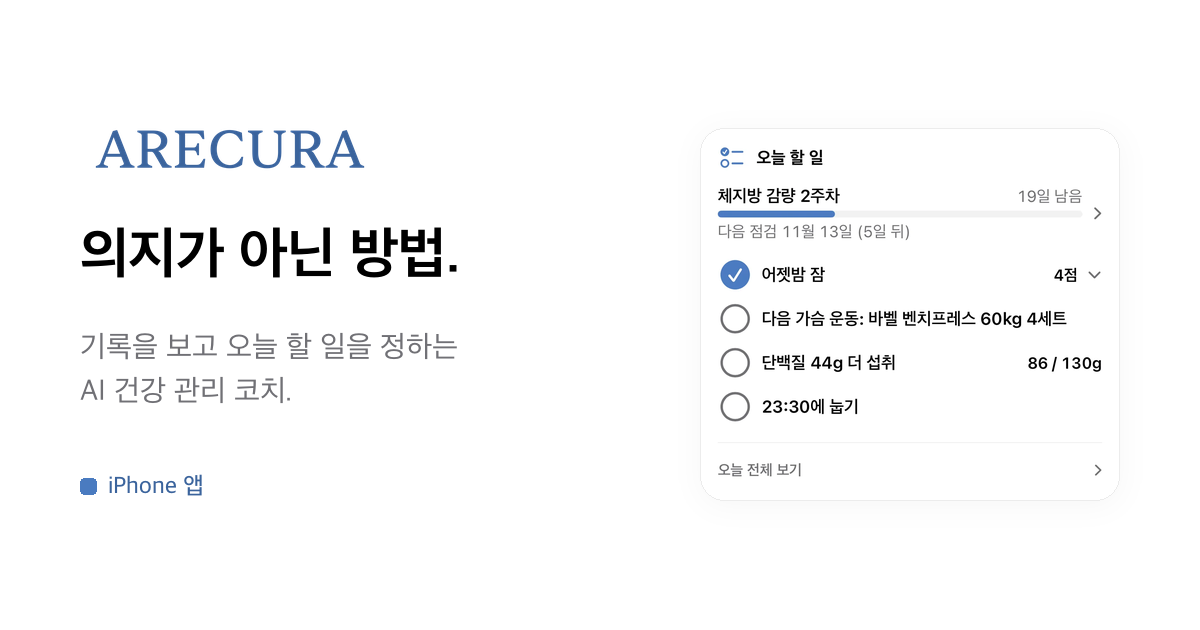
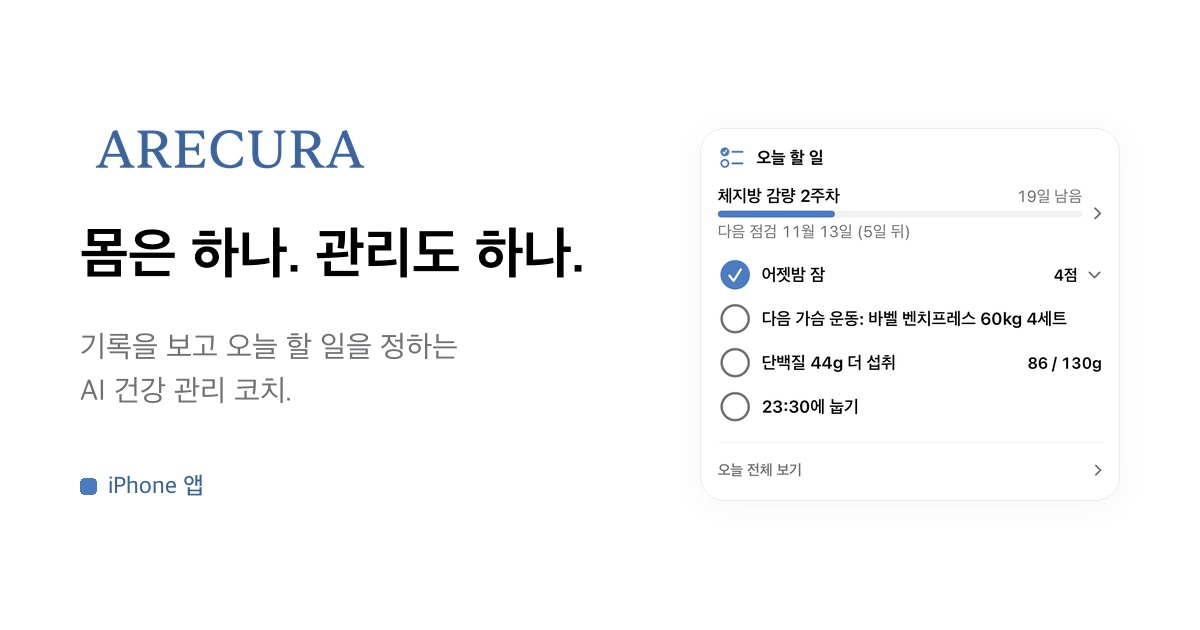
사이트 갱신 (앱 저장소 6ed76312a)

Changed region(s): [[0.0617, 0.3619, 0.4933, 0.4524]]

diff --git a/index.html b/index.html
@@ -4,20 +4,20 @@
 <meta charset="utf-8">
 <meta name="viewport" content="width=device-width, initial-scale=1">
 <title>Arecura: AI 건강 관리 코치</title>
-<meta name="description" content="의지가 아닌 방법. 운동, 식단, 수면 기록을 바탕으로 오늘 할 일을 정하는 AI 건강 관리 코치, Arecura.">
+<meta name="description" content="몸은 하나. 관리도 하나. 운동, 식단, 수면 기록을 바탕으로 오늘 할 일을 정하는 AI 건강 관리 코치, Arecura.">
 <meta name="theme-color" content="#FFFFFF">
 <meta name="color-scheme" content="only light">
 <link rel="canonical" href="https://arecura.net/">
 <meta property="og:type" content="website">
 <meta property="og:site_name" content="Arecura">
 <meta property="og:locale" content="ko_KR">
-<meta property="og:title" content="Arecura: 의지가 아닌 방법">
+<meta property="og:title" content="Arecura: 몸은 하나. 관리도 하나.">
 <meta property="og:description" content="운동, 식단, 수면 기록을 바탕으로 오늘 할 일을 정하는 AI 건강 관리 코치, Arecura.">
 <meta property="og:url" content="https://arecura.net/">
 <meta property="og:image" content="https://arecura.net/og-image.png">
 <meta property="og:image:width" content="1200">
 <meta property="og:image:height" content="630">
-<meta property="og:image:alt" content="Arecura 로고와 「의지가 아닌 방법.」, 「기록을 보고 오늘 할 일을 정하는 AI 건강 관리 코치.」 문구, 체지방 감량 2주차의 어젯밤 잠 점수, 「다음 가슴 운동: 바벨 벤치프레스 60kg 4세트」, 단백질, 눕는 시각을 한 줄씩 적은 「오늘 할 일」 앱 화면">
+<meta property="og:image:alt" content="Arecura 로고와 「몸은 하나. 관리도 하나.」, 「기록을 보고 오늘 할 일을 정하는 AI 건강 관리 코치.」 문구, 체지방 감량 2주차의 어젯밤 잠 점수, 「다음 가슴 운동: 바벨 벤치프레스 60kg 4세트」, 단백질, 눕는 시각을 한 줄씩 적은 「오늘 할 일」 앱 화면">
 <meta name="twitter:card" content="summary_large_image">
 <link rel="icon" type="image/x-icon" sizes="16x16 32x32" href="/favicon.ico?v=arecura-20261008">
 <link rel="icon" type="image/png" sizes="16x16" href="/favicon-16.png?v=arecura-20261008">
@@ -434,7 +434,7 @@
 <section class="hero" aria-labelledby="hero-title">
   <div class="wrap">
     <div>
-      <h1 id="hero-title">의지가 아닌 방법.</h1>
+      <h1 id="hero-title"><span class="line">몸은 하나.</span> <span class="line">관리도 하나.</span></h1>
       <p class="lead">기록을 보고 오늘 할 일을 정하는 AI 건강 관리 코치.<sup class="fn"><a href="#fn-1" aria-label="각주 1">1</a></sup></p>
       <ul class="hero-points" role="list">
         <li>오늘 할 일, 한 줄씩</li>

diff --git a/support.html b/support.html
@@ -17,7 +17,7 @@
 <meta property="og:image" content="https://arecura.net/og-image.png" />
 <meta property="og:image:width" content="1200" />
 <meta property="og:image:height" content="630" />
-<meta property="og:image:alt" content="Arecura 로고와 「의지가 아닌 방법.」, 「기록을 보고 오늘 할 일을 정하는 AI 건강 관리 코치.」 문구, 체지방 감량 2주차의 어젯밤 잠 점수, 「다음 가슴 운동: 바벨 벤치프레스 60kg 4세트」, 단백질, 눕는 시각을 한 줄씩 적은 「오늘 할 일」 앱 화면" />
+<meta property="og:image:alt" content="Arecura 로고와 「몸은 하나. 관리도 하나.」, 「기록을 보고 오늘 할 일을 정하는 AI 건강 관리 코치.」 문구, 체지방 감량 2주차의 어젯밤 잠 점수, 「다음 가슴 운동: 바벨 벤치프레스 60kg 4세트」, 단백질, 눕는 시각을 한 줄씩 적은 「오늘 할 일」 앱 화면" />
 <meta name="twitter:card" content="summary_large_image" />
 <link rel="icon" type="image/x-icon" sizes="16x16 32x32" href="/favicon.ico?v=arecura-20261008" />
 <link rel="icon" type="image/png" sizes="16x16" href="/favicon-16.png?v=arecura-20261008" />

diff --git a/privacy.html b/privacy.html
@@ -15,7 +15,7 @@
 <meta property="og:image" content="https://arecura.net/og-image.png" />
 <meta property="og:image:width" content="1200" />
 <meta property="og:image:height" content="630" />
-<meta property="og:image:alt" content="Arecura 로고와 「의지가 아닌 방법.」, 「기록을 보고 오늘 할 일을 정하는 AI 건강 관리 코치.」 문구, 체지방 감량 2주차의 어젯밤 잠 점수, 「다음 가슴 운동: 바벨 벤치프레스 60kg 4세트」, 단백질, 눕는 시각을 한 줄씩 적은 「오늘 할 일」 앱 화면" />
+<meta property="og:image:alt" content="Arecura 로고와 「몸은 하나. 관리도 하나.」, 「기록을 보고 오늘 할 일을 정하는 AI 건강 관리 코치.」 문구, 체지방 감량 2주차의 어젯밤 잠 점수, 「다음 가슴 운동: 바벨 벤치프레스 60kg 4세트」, 단백질, 눕는 시각을 한 줄씩 적은 「오늘 할 일」 앱 화면" />
 <meta name="twitter:card" content="summary_large_image" />
 <meta name="theme-color" content="#FFFFFF" />
 <meta name="color-scheme" content="only light" />

diff --git a/terms.html b/terms.html
@@ -15,7 +15,7 @@
 <meta property="og:image" content="https://arecura.net/og-image.png" />
 <meta property="og:image:width" content="1200" />
 <meta property="og:image:height" content="630" />
-<meta property="og:image:alt" content="Arecura 로고와 「의지가 아닌 방법.」, 「기록을 보고 오늘 할 일을 정하는 AI 건강 관리 코치.」 문구, 체지방 감량 2주차의 어젯밤 잠 점수, 「다음 가슴 운동: 바벨 벤치프레스 60kg 4세트」, 단백질, 눕는 시각을 한 줄씩 적은 「오늘 할 일」 앱 화면" />
+<meta property="og:image:alt" content="Arecura 로고와 「몸은 하나. 관리도 하나.」, 「기록을 보고 오늘 할 일을 정하는 AI 건강 관리 코치.」 문구, 체지방 감량 2주차의 어젯밤 잠 점수, 「다음 가슴 운동: 바벨 벤치프레스 60kg 4세트」, 단백질, 눕는 시각을 한 줄씩 적은 「오늘 할 일」 앱 화면" />
 <meta name="twitter:card" content="summary_large_image" />
 <meta name="theme-color" content="#FFFFFF" />
 <meta name="color-scheme" content="only light" />
